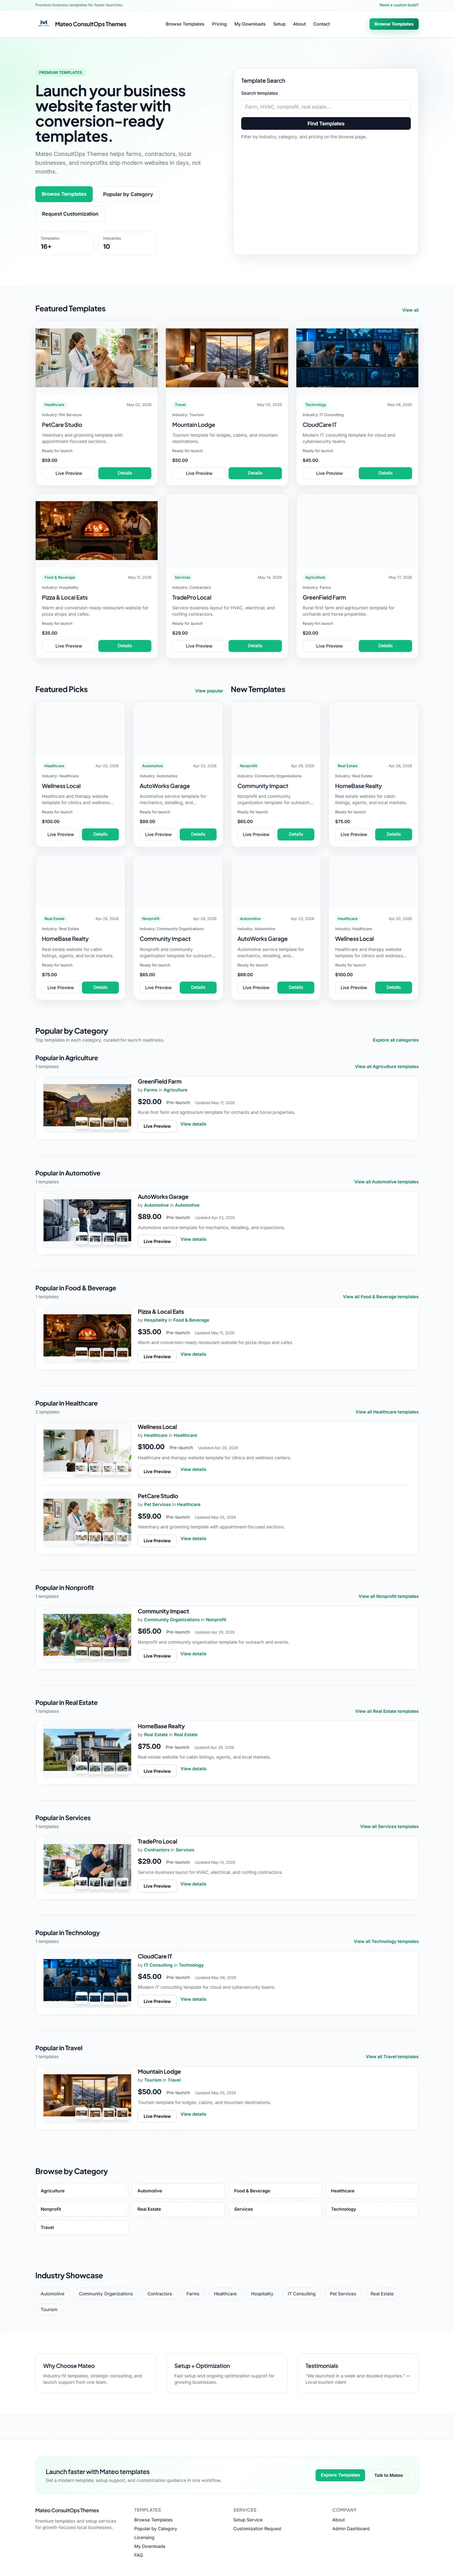
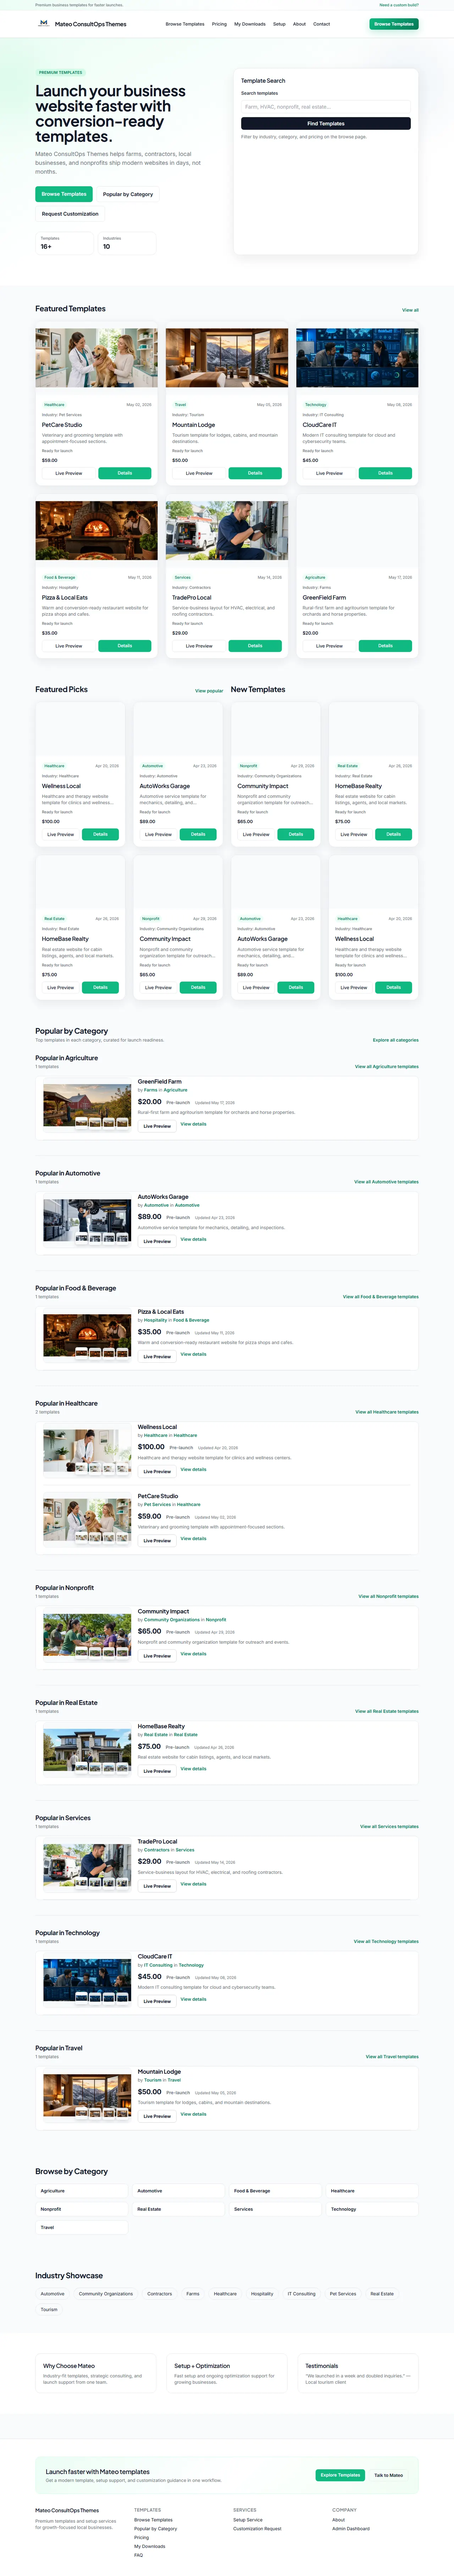
docs: refresh README homepage screenshot and pricing updates

Changed region(s): [[0.3438, 0.187, 0.6562, 0.2181]]

diff --git a/app/templates/pages/purchase.html b/app/templates/pages/purchase.html
@@ -6,7 +6,7 @@
     {% if payment_verified and download_token %}
     <div class="mt-6 rounded-xl border border-emerald-200 bg-emerald-50 p-4 text-emerald-900">
         <p class="font-semibold">Payment successful.</p>
-        <p class="mt-1 text-sm">Your license is active. Use the secure link below to download the full theme package.</p>
+        <p class="mt-1 text-sm">Your payment is confirmed. Use the secure link below to download the full theme package.</p>
         <div class="mt-3">
             <a
                 href="/downloads/theme/{{ template_item.slug }}?token={{ download_token }}"
@@ -33,6 +33,9 @@
     <div class="mt-6 rounded-xl border border-amber-200 bg-amber-50 p-4 text-amber-900">
         <p class="font-semibold">Stripe checkout is temporarily unavailable</p>
         <p class="mt-1 text-sm">Payments are not configured right now. Please try again shortly or contact support for a manual checkout link.</p>
+        <a href="/contact" class="mt-3 inline-flex rounded-lg border border-amber-300 bg-white px-3 py-2 text-sm font-semibold text-amber-900 hover:bg-amber-100">
+            Contact Support
+        </a>
     </div>
     {% endif %}
     <div class="mt-8 grid gap-6 lg:grid-cols-3">
@@ -54,19 +57,12 @@
             </div>
             <div class="mt-4"><label class="text-sm font-medium" for="email">Email</label><input id="email" name="email" type="email" required class="mt-1 w-full rounded-lg border border-brand-border px-3 py-2" /></div>
             <div class="mt-4"><label class="text-sm font-medium" for="company">Company (Optional)</label><input id="company" name="company" class="mt-1 w-full rounded-lg border border-brand-border px-3 py-2" /></div>
-            <div class="mt-4"><label class="text-sm font-medium" for="license_type">License Type</label>
-                <select id="license_type" name="license_type" class="mt-1 w-full rounded-lg border border-brand-border px-3 py-2">
-                    <option value="Standard">Standard</option>
-                    <option value="Business">Business</option>
-                    <option value="Agency">Agency</option>
-                </select>
-            </div>
             <div class="mt-4 rounded-lg bg-slate-50 p-3 text-sm text-brand-muted">
-                Includes full source files (home, about, services, pricing, contact), modern styling, and editable assets. You will be redirected to Stripe Checkout.
+                Price shown for this theme is the final price. Includes full source files (home, about, services, pricing, contact), modern styling, and editable assets. You will be redirected to Stripe Checkout.
             </div>
             <label class="mt-4 flex items-start gap-2 text-sm">
                 <input name="agree_terms" value="yes" type="checkbox" required class="mt-1" />
-                <span>I agree to the license terms and understand that download links expire for security.</span>
+                <span>I understand that download links expire for security.</span>
             </label>
             <button
                 type="submit"

diff --git a/app/templates/pages/pricing.html b/app/templates/pages/pricing.html
@@ -1,23 +1,23 @@
 {% extends "base.html" %}
 {% block content %}
 <section class="mx-auto max-w-7xl px-4 py-14 sm:px-6 lg:px-8">
-    <h1 class="text-3xl font-bold">Licensing & Pricing</h1>
-    <p class="mt-3 max-w-2xl text-brand-muted">Choose the right license and optional services for your launch velocity.</p>
+    <h1 class="text-3xl font-bold">Theme Pricing</h1>
+    <p class="mt-3 max-w-2xl text-brand-muted">Each template uses one clear purchase price. Optional setup and support services are available if needed.</p>
     <div class="mt-8 grid gap-6 md:grid-cols-3">
         <article class="rounded-2xl border border-brand-border bg-white p-6">
-            <h2 class="text-xl font-semibold">Standard</h2>
-            <p class="mt-3 text-3xl font-bold">$59</p>
-            <p class="mt-2 text-sm text-brand-muted">One production website, self-managed deployment.</p>
+            <h2 class="text-xl font-semibold">Theme Purchase</h2>
+            <p class="mt-3 text-3xl font-bold">Template Price</p>
+            <p class="mt-2 text-sm text-brand-muted">The price shown on each theme card is the final one-time purchase amount.</p>
         </article>
         <article class="rounded-2xl border-2 border-brand-emerald bg-white p-6 shadow-soft">
-            <h2 class="text-xl font-semibold">Business</h2>
-            <p class="mt-3 text-3xl font-bold">$129</p>
-            <p class="mt-2 text-sm text-brand-muted">Includes setup assistance and launch checklist.</p>
+            <h2 class="text-xl font-semibold">Setup Service (Optional)</h2>
+            <p class="mt-3 text-3xl font-bold">Custom Quote</p>
+            <p class="mt-2 text-sm text-brand-muted">Includes deployment guidance, configuration help, and launch checklist support.</p>
         </article>
         <article class="rounded-2xl border border-brand-border bg-white p-6">
-            <h2 class="text-xl font-semibold">Agency</h2>
-            <p class="mt-3 text-3xl font-bold">$299</p>
-            <p class="mt-2 text-sm text-brand-muted">Multi-client usage with priority consulting support.</p>
+            <h2 class="text-xl font-semibold">Maintenance Support (Optional)</h2>
+            <p class="mt-3 text-3xl font-bold">Custom Quote</p>
+            <p class="mt-2 text-sm text-brand-muted">Ongoing updates, content changes, and support planning for your live site.</p>
         </article>
     </div>
 </section>

diff --git a/app/templates/base.html b/app/templates/base.html
@@ -135,7 +135,7 @@
                     <ul class="mt-3 space-y-2 text-sm">
                         <li><a href="/popular" class="hover:text-brand-emerald">Browse Templates</a></li>
                         <li><a href="/popular" class="hover:text-brand-emerald">Popular by Category</a></li>
-                        <li><a href="/pricing" class="hover:text-brand-emerald">Licensing</a></li>
+                        <li><a href="/pricing" class="hover:text-brand-emerald">Pricing</a></li>
                         <li><a href="/downloads" class="hover:text-brand-emerald">My Downloads</a></li>
                         <li><a href="/faq" class="hover:text-brand-emerald">FAQ</a></li>
                     </ul>

diff --git a/app/templates/pages/my_downloads.html b/app/templates/pages/my_downloads.html
@@ -33,7 +33,7 @@
                     <h2 class="text-lg font-semibold">{{ item.purchase.template.title }}</h2>
                     <p class="text-sm text-brand-muted">
                         {{ item.purchase.template.category.name }} · {{ item.purchase.template.industry.name }} ·
-                        License {{ item.purchase.license_type }} · Paid ${{ "%.2f"|format(item.purchase.amount) }}
+                        Paid ${{ "%.2f"|format(item.purchase.amount) }}
                     </p>
                 </div>
                 <div class="flex flex-col gap-2 sm:w-auto">

diff --git a/app/templates/pages/template_detail.html b/app/templates/pages/template_detail.html
@@ -40,7 +40,7 @@
         </div>
 
         <aside class="h-fit rounded-2xl border border-brand-border bg-white p-6 shadow-soft">
-            <p class="text-sm text-brand-muted">License starts at</p>
+            <p class="text-sm text-brand-muted">Theme price</p>
             <p class="mt-1 text-3xl font-bold">${{ "%.2f"|format(template_item.price) }}</p>
             <p class="mt-2 text-sm text-brand-muted">Includes full downloadable website source after payment.</p>
             <div class="mt-4 space-y-2 text-sm text-brand-muted">

diff --git a/app/routers/public.py b/app/routers/public.py
@@ -39,7 +39,7 @@ router = APIRouter()
 settings = get_settings()
 
 EMAIL_REGEX = re.compile(r"^[^@\s]+@[^@\s]+\.[^@\s]+$")
-ALLOWED_LICENSE_TYPES = {"Standard", "Business", "Agency"}
+DEFAULT_PURCHASE_TYPE = "Theme"
 
 PREVIEW_GRADIENTS = [
     ("#10B981", "#047857"),
@@ -68,7 +68,6 @@ def _configure_stripe() -> None:
 
 def _mark_purchase_paid(db: Session, purchase: Purchase) -> None:
     if purchase.status == "paid":
-        send_purchase_fulfillment_email(db, purchase, settings)
         return
     purchase.status = "paid"
     purchase.template.sales_count += 1
@@ -370,8 +369,8 @@ def pricing_page(request: Request):
         "pages/pricing.html",
         request,
         {
-            "meta_title": "Licensing and Pricing",
-            "meta_description": "Compare template licensing tiers and services.",
+            "meta_title": "Theme Pricing",
+            "meta_description": "Compare template prices and optional launch services.",
         },
     )
 
@@ -489,7 +488,7 @@ def faq_page(request: Request):
     return render(
         "pages/faq.html",
         request,
-        {"meta_title": "Frequently Asked Questions", "meta_description": "Answers for templates, licensing, and services."},
+        {"meta_title": "Frequently Asked Questions", "meta_description": "Answers for templates, pricing, and services."},
     )
 
 
@@ -572,7 +571,7 @@ def purchase_page(request: Request, slug: str, db: Session = Depends(get_db)):
     if not template:
         raise HTTPException(status_code=404, detail="Template not found")
 
-    stripe_configured = bool(settings.stripe_secret_key and settings.stripe_publishable_key)
+    stripe_configured = bool(settings.stripe_secret_key)
     download_token = ""
     payment_verified = False
     payment_error = ""
@@ -633,7 +632,6 @@ def purchase_template(
     last_name: str = Form(...),
     email: str = Form(...),
     company: str = Form(""),
-    license_type: str = Form("Standard"),
     agree_terms: str | None = Form(default=None),
 ):
     template = get_template_by_slug(db, slug)
@@ -646,14 +644,11 @@ def purchase_template(
     normalized_last_name = last_name.strip()
     normalized_email = email.strip().lower()
     normalized_company = company.strip()
-    normalized_license_type = license_type.strip().title()
 
     if not normalized_first_name or not normalized_last_name:
         raise HTTPException(status_code=400, detail="First name and last name are required.")
     if not normalized_email or not EMAIL_REGEX.match(normalized_email):
         raise HTTPException(status_code=400, detail="A valid email address is required.")
-    if normalized_license_type not in ALLOWED_LICENSE_TYPES:
-        raise HTTPException(status_code=400, detail="Invalid license type selected.")
 
     # Validate Stripe credentials before writing pending purchase records.
     _configure_stripe()
@@ -673,7 +668,7 @@ def purchase_template(
         template_id=template.id,
         customer_id=customer.id,
         amount=template.price,
-        license_type=normalized_license_type,
+        license_type=DEFAULT_PURCHASE_TYPE,
         status="pending",
     )
     db.add(purchase)
@@ -690,7 +685,7 @@ def purchase_template(
                         "currency": "usd",
                         "unit_amount": int(round(template.price * 100)),
                         "product_data": {
-                            "name": f"{template.title} Theme License ({normalized_license_type})",
+                            "name": f"{template.title} Theme",
                             "description": template.description,
                         },
                     },

diff --git a/tests/test_purchase_workflow.py b/tests/test_purchase_workflow.py
@@ -31,7 +31,6 @@ def test_purchase_requires_stripe_before_creating_records():
                 "last_name": "Missing",
                 "email": email,
                 "company": "QA",
-                "license_type": "Standard",
                 "agree_terms": "yes",
             },
             follow_redirects=False,
@@ -58,7 +57,7 @@ def test_purchase_success_page_renders_download_link(monkeypatch):
             template_id=template.id,
             customer_id=customer.id,
             amount=template.price,
-            license_type="Standard",
+            license_type="Theme",
             status="pending",
         )
         db.add(purchase)
@@ -77,6 +76,7 @@ def test_purchase_success_page_renders_download_link(monkeypatch):
         assert response.status_code == 200
         assert "Payment successful." in response.text
         assert f"/downloads/theme/{template.slug}?token=" in response.text
+        assert "License Type" not in response.text
 
         with SessionLocal() as db:
             refreshed_purchase = db.get(Purchase, purchase_id)
@@ -89,14 +89,56 @@ def test_purchase_success_page_renders_download_link(monkeypatch):
 def test_purchase_page_shows_unavailable_state_when_stripe_not_configured():
     template = _get_template()
     original_secret = public.settings.stripe_secret_key
-    original_publishable = public.settings.stripe_publishable_key
     public.settings.stripe_secret_key = ""
-    public.settings.stripe_publishable_key = ""
     try:
         response = client.get(f"/purchase/{template.slug}")
         assert response.status_code == 200
         assert "Stripe checkout is temporarily unavailable" in response.text
         assert "disabled aria-disabled=\"true\"" in response.text
+        assert "Contact Support" in response.text
     finally:
         public.settings.stripe_secret_key = original_secret
-        public.settings.stripe_publishable_key = original_publishable
+
+
+def test_mark_purchase_paid_sends_fulfillment_once(monkeypatch):
+    template = _get_template()
+    email = f"fulfilled-once-{uuid.uuid4().hex[:8]}@example.com"
+
+    sent_purchase_ids: list[int] = []
+
+    def _capture_fulfillment(_db, purchase, _settings):
+        sent_purchase_ids.append(purchase.id)
+
+    monkeypatch.setattr(public, "send_purchase_fulfillment_email", _capture_fulfillment)
+
+    with SessionLocal() as db:
+        template_db = db.get(Template, template.id)
+        assert template_db is not None
+        baseline_sales = template_db.sales_count
+
+        customer = Customer(name="Single Fulfillment", email=email, company="QA")
+        db.add(customer)
+        db.flush()
+
+        purchase = Purchase(
+            template_id=template_db.id,
+            customer_id=customer.id,
+            amount=template_db.price,
+            license_type="Theme",
+            status="pending",
+        )
+        db.add(purchase)
+        db.commit()
+        db.refresh(purchase)
+
+        public._mark_purchase_paid(db, purchase)
+        db.refresh(purchase)
+        assert purchase.status == "paid"
+
+        public._mark_purchase_paid(db, purchase)
+        db.refresh(purchase)
+        db.refresh(template_db)
+
+        assert purchase.status == "paid"
+        assert template_db.sales_count == baseline_sales + 1
+        assert sent_purchase_ids == [purchase.id]

diff --git a/app/models/entities.py b/app/models/entities.py
@@ -132,7 +132,7 @@ class Purchase(Base, TimestampMixin):
     template_id: Mapped[int] = mapped_column(ForeignKey("templates.id"), nullable=False)
     customer_id: Mapped[int] = mapped_column(ForeignKey("customers.id"), nullable=False)
     amount: Mapped[float] = mapped_column(Float, nullable=False)
-    license_type: Mapped[str] = mapped_column(String(100), default="Standard")
+    license_type: Mapped[str] = mapped_column(String(100), default="Theme")
     status: Mapped[str] = mapped_column(String(50), default="paid")
 
     template: Mapped[Template] = relationship(back_populates="purchases")

diff --git a/app/services/fulfillment.py b/app/services/fulfillment.py
@@ -20,7 +20,6 @@ def _build_email_body(purchase: Purchase, download_url: str) -> str:
         f"Thank you for purchasing {purchase.template.title}.\n"
         "Your full website theme package is ready for download.\n\n"
         f"Download link (expires in 2 hours):\n{download_url}\n\n"
-        f"License: {purchase.license_type}\n"
         f"Amount: ${purchase.amount:.2f}\n\n"
         "If your link expires, visit My Downloads and request a new link using your purchase email.\n"
     )

diff --git a/app/services/theme_packages.py b/app/services/theme_packages.py
@@ -189,7 +189,7 @@ Thanks for your purchase.
 - Category: {template.category.name}
 - Industry: {template.industry.name}
 - Version: {template.version}
-- License: Commercial purchase required
+- Purchase: Completed via Mateo ConsultOps Themes checkout
 """
 
     memory_file = BytesIO()

diff --git a/README.md b/README.md
@@ -117,7 +117,7 @@ Pixel-accurate capture of the marketplace homepage (`/`)—hero, template search
 | GET | `/preview/{slug}/{page}` | Live wrapped preview HTML |
 | GET | `/preview-site/{slug}` | Redirect to preview home |
 | GET | `/preview-site/{slug}/{page}` | Redirect to preview page |
-| GET | `/pricing` | Licensing and pricing |
+| GET | `/pricing` | Theme pricing and optional services |
 | GET | `/services/setup` | Setup services |
 | GET | `/contact` | Contact form |
 | POST | `/api/contact` | Proxy to ConsultOps contacts API |
